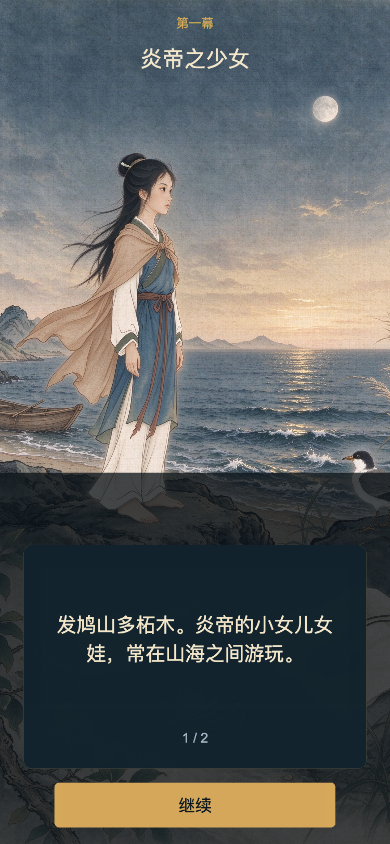
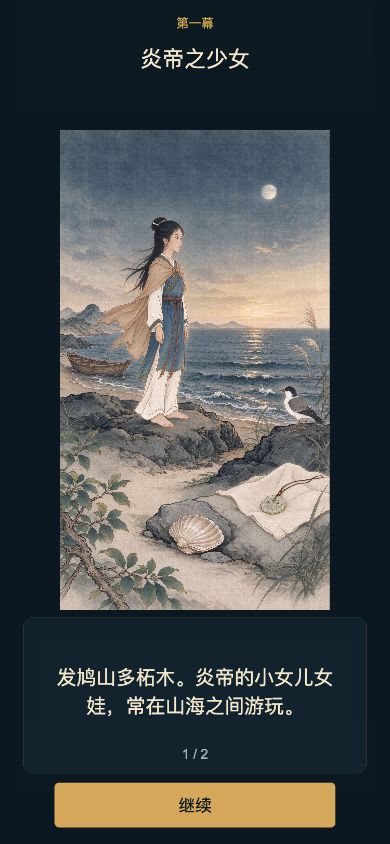
Separate playable image area from story and puzzle UI

diff --git a/wechat-minigame/assets/scripts/SpikeController.ts b/wechat-minigame/assets/scripts/SpikeController.ts
@@ -98,6 +98,9 @@ export class SpikeController extends Component {
   private artFrames = new Map<string, SpriteFrame>();
   private iconFrames = new Map<string, SpriteFrame>();
   private loadingLabel: Label | null = null;
+  private artViewportNode: Node | null = null;
+  private artViewport = { y: 0, height: 0 };
+  private artDisplay = { width: 0, height: 0 };
 
   onLoad() {
     view.setDesignResolutionSize(750, 1334, ResolutionPolicy.FIXED_WIDTH);
@@ -208,10 +211,12 @@ export class SpikeController extends Component {
     });
   }
 
-  private artDisplaySize(frame: SpriteFrame, width: number, height: number): { width: number; height: number } {
+  private artDisplaySize(frame: SpriteFrame, width: number, height: number, fit: 'cover' | 'contain' = 'cover'): { width: number; height: number } {
     const imageWidth = frame.originalSize?.width || frame.rect?.width || width;
     const imageHeight = frame.originalSize?.height || frame.rect?.height || height;
-    const scale = Math.max(width / imageWidth, height / imageHeight);
+    const scale = fit === 'contain'
+      ? Math.min(width / imageWidth, height / imageHeight)
+      : Math.max(width / imageWidth, height / imageHeight);
     return { width: imageWidth * scale, height: imageHeight * scale };
   }
 
@@ -330,6 +335,9 @@ export class SpikeController extends Component {
     this.pillLabels.clear();
     this.coverNodes.clear();
     this.coversOpened.clear();
+    this.artViewportNode = null;
+    this.artViewport = { y: 0, height: 0 };
+    this.artDisplay = { width: 0, height: 0 };
     this.foundIds.clear();
     this.foundCount = 0;
     this.hintLeft = 3;
@@ -340,6 +348,14 @@ export class SpikeController extends Component {
     n.layer = Layers.Enum.UI_2D;
     n.addComponent(UITransform).setContentSize(width, height);
     this.viewLayer!.addChild(n);
+    return n;
+  }
+
+  private uiNodeIn(parent: Node, name: string, width: number, height: number): Node {
+    const n = new Node(name);
+    n.layer = Layers.Enum.UI_2D;
+    n.addComponent(UITransform).setContentSize(width, height);
+    parent.addChild(n);
     return n;
   }
 
@@ -393,9 +409,109 @@ export class SpikeController extends Component {
     return n;
   }
 
+  private viewportFor(mode: string): { y: number; height: number } {
+    const h = view.getVisibleSize().height;
+    const top = h / 2;
+    const bottom = -h / 2;
+    if (mode === 'puzzle') {
+      const barHeight = 300;
+      const imageTop = top - this.safeTop - 250;
+      const imageBottom = bottom + this.safeBottom + barHeight + 14;
+      return { y: (imageTop + imageBottom) / 2, height: Math.max(300, imageTop - imageBottom) };
+    }
+    const buttonY = this.bottomY(75);
+    const panelHeight = 300;
+    const panelBottom = buttonY + 43 + 18;
+    const imageTop = top - this.safeTop - 250;
+    const imageBottom = panelBottom + panelHeight + 14;
+    return { y: (imageTop + imageBottom) / 2, height: Math.max(300, imageTop - imageBottom) };
+  }
+
+  private storyLayout(): { panelY: number; buttonY: number } {
+    const buttonY = this.bottomY(75);
+    const panelHeight = 300;
+    const panelBottom = buttonY + 43 + 18;
+    return { panelY: panelBottom + panelHeight / 2, buttonY };
+  }
+
+  private drawArtViewport(actIndex: number, mode: string) {
+    const w = 750;
+    const h = view.getVisibleSize().height;
+    const bg = this.uiNode('PageBg', w, h);
+    const bgGraphics = bg.addComponent(Graphics);
+    bgGraphics.fillColor = INK;
+    bgGraphics.rect(-w / 2, -h / 2, w, h);
+    bgGraphics.fill();
+
+    const viewport = this.viewportFor(mode);
+    this.artViewport = viewport;
+    this.artViewportNode = null;
+    this.artDisplay = { width: 0, height: 0 };
+
+    const frame = this.artFrames.get(this.artName(actIndex, mode));
+    if (frame) {
+      const shown = this.artDisplaySize(frame, w, viewport.height, mode === 'puzzle' ? 'cover' : 'contain');
+      const vp = this.uiNode('ArtViewport', w, viewport.height);
+      vp.setPosition(0, viewport.y);
+      const image = new Node('ViewportArt');
+      image.layer = Layers.Enum.UI_2D;
+      image.addComponent(UITransform);
+      const sprite = image.addComponent(Sprite);
+      sprite.spriteFrame = frame;
+      sprite.sizeMode = Sprite.SizeMode.CUSTOM;
+      image.getComponent(UITransform)!.setContentSize(shown.width, shown.height);
+      vp.addChild(image);
+      image.setPosition(0, 0);
+      this.artViewportNode = vp;
+      this.artDisplay = shown;
+    }
+
+    // Cover the parts of the oversized image that would spill into the
+    // header/footer. The screen clips the left/right overflow.
+    const imageTop = viewport.y + viewport.height / 2;
+    const imageBottom = viewport.y - viewport.height / 2;
+    const headerHeight = h / 2 - imageTop;
+    if (headerHeight > 0) {
+      const headerBg = this.uiNode('HeaderBg', w, headerHeight);
+      headerBg.setPosition(0, h / 2 - headerHeight / 2);
+      const hg = headerBg.addComponent(Graphics);
+      hg.fillColor = INK;
+      hg.rect(-w / 2, -headerHeight / 2, w, headerHeight);
+      hg.fill();
+    }
+    const footerHeight = imageBottom + h / 2;
+    if (footerHeight > 0) {
+      const footerBg = this.uiNode('FooterBg', w, footerHeight);
+      footerBg.setPosition(0, -h / 2 + footerHeight / 2);
+      const fg = footerBg.addComponent(Graphics);
+      fg.fillColor = INK;
+      fg.rect(-w / 2, -footerHeight / 2, w, footerHeight);
+      fg.fill();
+    }
+
+    if (mode === 'puzzle') {
+      const barHeight = this.safeBottom + 300;
+      const bar = this.uiNode('PuzzleBar', w, barHeight);
+      bar.setPosition(0, -h / 2 + barHeight / 2);
+      const g = bar.addComponent(Graphics);
+      g.fillColor = new Color(10, 22, 29, 255);
+      g.rect(-w / 2, -barHeight / 2, w, barHeight);
+      g.fill();
+      g.lineWidth = 1;
+      g.strokeColor = new Color(213, 168, 90, 95);
+      g.moveTo(-w / 2, barHeight / 2);
+      g.lineTo(w / 2, barHeight / 2);
+      g.stroke();
+    }
+  }
+
   private drawScene(actIndex: number, mode = 'story') {
     const w = 750;
     const h = view.getVisibleSize().height;
+    if (mode === 'story' || mode === 'puzzle') {
+      this.drawArtViewport(actIndex, mode);
+      return;
+    }
     const frame = this.artFrames.get(this.artName(actIndex, mode));
     if (frame) {
       const shown = this.artDisplaySize(frame, w, h);
@@ -595,12 +711,11 @@ export class SpikeController extends Component {
     this.drawScene(actIndex, 'story');
     this.header(act.kicker, act.title);
 
-    const h = view.getVisibleSize().height;
-    const panelY = this.bottomY(360);
-    this.panel(0, panelY, 660, 430);
-    this.label(act.pages[pageIndex], 0, panelY + 35, 38, PAPER, 590, 270);
-    this.label(`${pageIndex + 1} / ${act.pages.length}`, 0, panelY - 155, 26, MUTED);
-    this.button(pageIndex === act.pages.length - 1 ? '进入本幕谜题' : '继续', 0, this.bottomY(75), 540, 86, () => {
+    const layout = this.storyLayout();
+    this.panel(0, layout.panelY, 660, 300);
+    this.label(act.pages[pageIndex], 0, layout.panelY + 8, 38, PAPER, 590, 190);
+    this.label(`${pageIndex + 1} / ${act.pages.length}`, 0, layout.panelY - 112, 26, MUTED);
+    this.button(pageIndex === act.pages.length - 1 ? '进入本幕谜题' : '继续', 0, layout.buttonY, 540, 86, () => {
       this.showStory(actIndex, pageIndex + 1);
     });
   }
@@ -624,19 +739,19 @@ export class SpikeController extends Component {
 
     this.label(act.puzzle.prompt, 0, top - this.safeTop - 170, 32, PAPER, 650);
     this.progressLabel = null;
-    this.hintText = this.label('', 0, this.bottomY(300), 26, GOLD, 690);
+    this.hintText = this.label('', 0, top - this.safeTop - 208, 22, GOLD, 690, 44);
 
-    const artMode = this.artFrames.size > 0;
-    const puzzleFrame = this.artFrames.get(this.artName(actIndex, 'puzzle'));
-    const display = puzzleFrame ? this.artDisplaySize(puzzleFrame, view.getVisibleSize().width, h) : null;
+    const display = this.artDisplay;
+    const artMode = Boolean(this.artViewportNode) && display.width > 0 && display.height > 0;
+    const parent = this.artViewportNode || this.viewLayer!;
     for (const target of act.puzzle.targets) {
-      const px = artMode && display ? (target.x - 0.5) * display.width : -330 + target.x * 660;
-      const py = artMode && display ? (target.y - 0.5) * display.height : areaBottom + target.y * (areaTop - areaBottom);
+      const px = artMode ? (target.x - 0.5) * display.width : -330 + target.x * 660;
+      const py = artMode ? (target.y - 0.5) * display.height : areaBottom + target.y * (areaTop - areaBottom);
       const hitSize = artMode ? (['head', 'beak', 'stone'].includes(target.id) ? 86 : 112) : 130;
-      const n = this.uiNode(`target-${target.id}`, hitSize, hitSize);
+      const n = this.uiNodeIn(parent, `target-${target.id}`, hitSize, hitSize);
       n.setPosition(px, py);
       n.setScale(1.08, 1.08, 1);
-      if (this.artFrames.size === 0) {
+      if (!artMode) {
         const g = n.addComponent(Graphics);
         this.drawIcon(g, target.icon);
       }
@@ -646,9 +761,9 @@ export class SpikeController extends Component {
     }
 
     for (const cover of act.puzzle.covers || []) {
-      const px = artMode && display ? (cover.x - 0.5) * display.width : -330 + cover.x * 660;
-      const py = artMode && display ? (cover.y - 0.5) * display.height : areaBottom + cover.y * (areaTop - areaBottom);
-      const n = this.uiNode(`cover-${cover.id}`, cover.w, cover.h);
+      const px = artMode ? (cover.x - 0.5) * display.width : -330 + cover.x * 660;
+      const py = artMode ? (cover.y - 0.5) * display.height : areaBottom + cover.y * (areaTop - areaBottom);
+      const n = this.uiNodeIn(parent, `cover-${cover.id}`, cover.w, cover.h);
       n.setPosition(px, py);
       const g = n.addComponent(Graphics);
       this.drawCover(g, cover);
@@ -700,11 +815,12 @@ export class SpikeController extends Component {
     if (hasIcon) {
       const iconNode = new Node('PillIcon');
       iconNode.layer = Layers.Enum.UI_2D;
-      iconNode.addComponent(UITransform).setContentSize(38, 38);
+      iconNode.addComponent(UITransform);
       if (icon) {
         const sp = iconNode.addComponent(Sprite);
         sp.spriteFrame = icon;
         sp.sizeMode = Sprite.SizeMode.CUSTOM;
+        iconNode.getComponent(UITransform)!.setContentSize(38, 38);
       } else {
         const g = iconNode.addComponent(Graphics);
         iconNode.setScale(0.55, 0.55, 1);

diff --git a/docs/wechat-cocos-spike.md b/docs/wechat-cocos-spike.md
@@ -244,21 +244,24 @@ Why the patch is needed:
 
 After a WeChat DevTools "编译", you do **not** need to run it again. It is only for a new Cocos build.
 
-### Aspect handling
+### Layout: playable image area is separate from UI
 
-The chapter art is 9:16 (1440×2560), but WeChat phones render at a taller visible design size (for example 750×1666). Forcing the sprite to 750×1666 stretched the figures vertically.
-
-The background now uses **aspect-fill / cover**:
+The chapter screens no longer draw the story text or the puzzle controls on top of the artwork.
 
 ```text
-scale = max(screenWidth / imageWidth, screenHeight / imageHeight)
-displayWidth = imageWidth * scale
-displayHeight = imageHeight * scale
+Header (safe area)
+Image viewport
+Story text + button     or     fixed puzzle bar (pills + hint)
 ```
 
-The sprite is slightly wider than the screen and is clipped at the two sides; the image is never stretched. Puzzle hit zones use the same displayed width/height, so target positions stay aligned.
+- Story: the image uses `contain`, so the whole 9:16 picture is visible; side bars use the page background.
+- Puzzle: the image uses `cover` inside the viewport, so it fills the playable area; the fixed bar below is not over the art.
+- The image viewport is `750 × (screenHeight - header - bottomUI)`.
+- Puzzle hit zones use the viewport's displayed width/height, not the full screen.
+- The bottom puzzle bar sits outside the image; pills, hint button and status text never cover a target.
+- Story text sits outside the image; the panel and continue button do not cover the picture.
 
-Trade-off: on tall phones a little of the left/right edge is cropped. If that becomes a problem, switch `artDisplaySize` to `min(...)` (contain/letterbox) and add a background color or title bar above/below the art.
+Trade-off: the story image is smaller and has side bars; the puzzle image crops a little top/bottom to fill the viewport. This is deliberate: story prioritizes the full composition, puzzle prioritizes a clean, unobstructed find area.
 
 ## Current machine status
 
